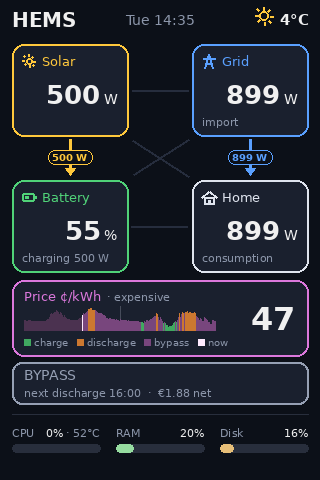
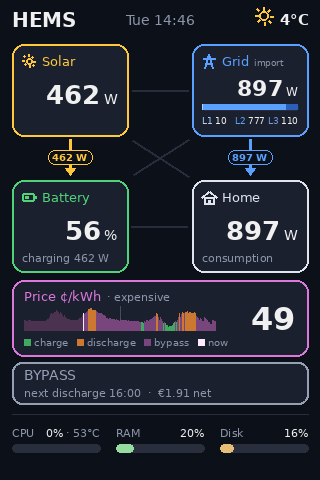
Display: per-phase mix in the grid tile (stacked bar, W)
Grid tile shows the net total in W, a stacked bar of each phase's share
(light / mid / dark blue for L1-L3) and the W value per phase. A phase
with a negative value (export) is drawn in yellow with a minus sign;
"import/export" moves next to the tile label.

diff --git a/hems/display.py b/hems/display.py
@@ -286,6 +286,60 @@ def tile(d, key, label, icon, col, value, unit, sub, ok, sub_col=MUTED):
         d.text((x + 10, y + TH - 10), sub, font=font(11), fill=sub_col, anchor="ls")
 
 
+PHASE_COL = [(168, 212, 255), (90, 160, 255), (44, 95, 184)]   # L1 light, L2 mid, L3 dark blue
+PHASE_TXT = [(168, 212, 255), (90, 160, 255), (111, 155, 230)]  # L3 label lighter for contrast
+
+
+def grid_tile(d, p1, ok):
+    """Grid tile: net total in W, stacked bar of each phase's share, W per phase.
+    An exporting phase (negative value) is drawn in yellow with a minus sign."""
+    x, y = POS["grid"]
+    col = BLUE if ok else MUTED
+    d.rounded_rectangle((x, y, x + TW, y + TH), 12, fill=TILE, outline=BLUE if ok else (70, 76, 90), width=2)
+    icon_grid(d, x + 10, y + 10, col)
+    d.text((x + 30, y + 9), "Grid", font=font(13), fill=col)
+    if p1 is None:
+        d.text((x + TW - 10, y + 52), "--", font=font(22, True), fill=MUTED, anchor="rs")
+        return
+    g = p1["grid_w"]
+    lx = x + 30 + text_w(d, "Grid", font(13)) + 5
+    if not ok:
+        d.text((x + TW - 10, y + 12), "offline", font=font(10), fill=RED, anchor="ra")
+    else:
+        d.text((lx, y + 13), "import" if g >= 0 else "export", font=font(9), fill=MUTED)
+    fv, fu = font(22, True), font(12)
+    uw = text_w(d, " W", fu)
+    d.text((x + TW - 10, y + 52), " W", font=fu, fill=FG if ok else MUTED, anchor="rs")
+    d.text((x + TW - 10 - uw, y + 52), f"{abs(g)}", font=fv, fill=FG if ok else MUTED, anchor="rs")
+
+    # stacked share bar
+    phases = p1["phases_w"]
+    bx0, bx1, by = x + 10, x + TW - 10, y + 60
+    d.rounded_rectangle((bx0, by, bx1, by + 6), 3, fill=(40, 46, 60))
+    total = sum(abs(v) for v in phases)
+    if total > 0:
+        cx = bx0
+        for k, v in enumerate(phases):
+            w = (bx1 - bx0) * abs(v) / total
+            if w >= 0.5:
+                d.rectangle((round(cx), by, round(cx + w) - 1, by + 5), fill=YELLOW if v < 0 else PHASE_COL[k])
+            cx += w
+    # values
+    f = font(9)
+    for k, v in enumerate(phases):
+        name, val = f"L{k + 1}", f"{v}" if v >= 0 else f"−{abs(v)}"
+        wn, wv = text_w(d, name + " ", f), text_w(d, val, f)
+        if k == 0:
+            tx = bx0
+        elif k == 1:
+            tx = (bx0 + bx1) / 2 - (wn + wv) / 2
+        else:
+            tx = bx1 - wn - wv
+        ncol = YELLOW if v < 0 else PHASE_TXT[k]
+        d.text((tx, y + 80), name, font=f, fill=ncol, anchor="ls")
+        d.text((tx + wn, y + 80), val, font=f, fill=YELLOW if v < 0 else FG, anchor="ls")
+
+
 def energy_section(d, v):
     p1, sf = v.get("p1"), v.get("sf")
     p1_ok, sf_ok = _fresh(p1), _fresh(sf)
@@ -315,11 +369,7 @@ def energy_section(d, v):
         tile(d, "solar", "Solar", lambda dd, x, y, c: icon_sun(dd, x + 7, y + 7, c, r=3, ray=6.5),
              YELLOW, "--", " W", "", False)
         tile(d, "battery", "Battery", icon_battery, GREEN, "--", " %", "", False)
-    if p1:
-        g = p1["grid_w"]
-        tile(d, "grid", "Grid", icon_grid, BLUE, f"{abs(g)}", " W", "import" if g >= 0 else "export", p1_ok)
-    else:
-        tile(d, "grid", "Grid", icon_grid, BLUE, "--", " W", "", False)
+    grid_tile(d, p1, p1_ok)
     tile(d, "home", "Home", icon_home, WHITE, f"{home}" if home is not None else "--", " W",
          "consumption", home is not None)
 
